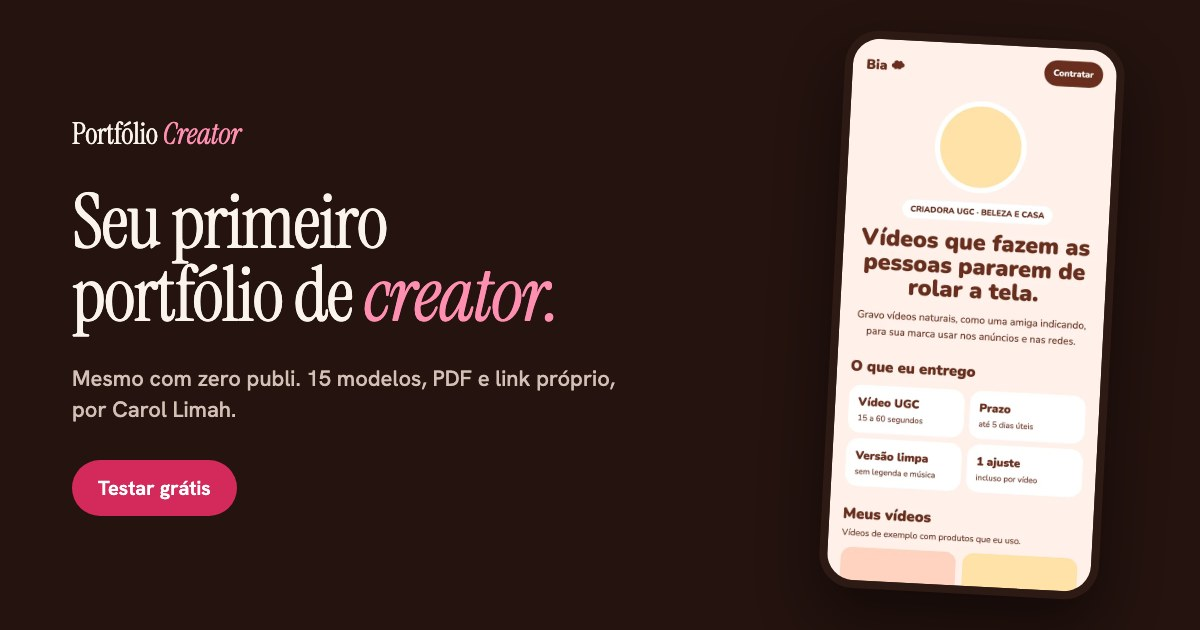
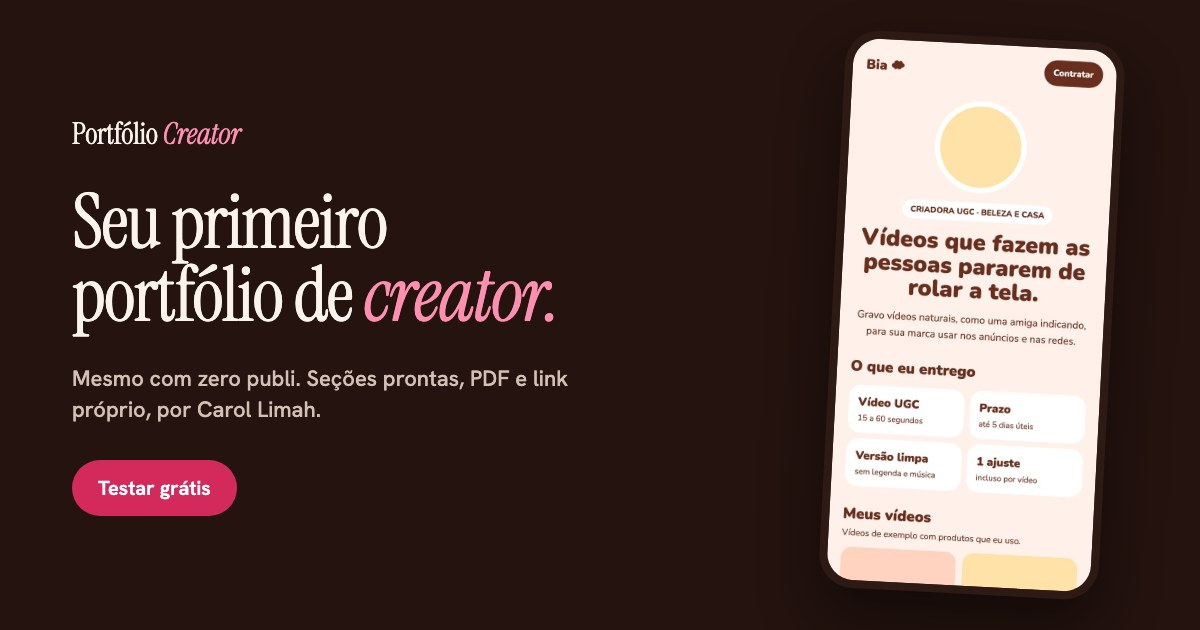
DEV-097: página de vendas sem modelos (seções prontas, teste só visualiza, sem promessa de IA dos prints, vitrine com imagens do editor)

Changed region(s): [[0.0617, 0.573, 0.5242, 0.6635]]

diff --git a/site/src/data/portfolio-creator.ts b/site/src/data/portfolio-creator.ts
@@ -46,8 +46,8 @@ export const CAROL = {
 };
 
 export const STEPS = [
-  { title: 'Escolha seu modelo', text: '15 modelos com layouts diferentes: suave, colorido, sério, casual, luxo, neon… e 3 paletas em cada um.' },
-  { title: 'Suba vídeos e prints', text: 'Você sobe até 10 vídeos e os prints das estatísticas do Instagram. A IA lê os prints e preenche os números, e você só confere.' },
+  { title: 'Monte com seções prontas', text: '11 seções pensadas para o que a marca procura: capa, vídeos, números, público, marcas e mais. Você escolhe quais entram, a ordem e o layout de cada uma.' },
+  { title: 'Suba vídeos e seus números', text: 'Você sobe os vídeos que gravou e digita os números do seu Instagram. Eles entram formatados no portfólio, e você confere tudo antes de concluir.' },
   { title: 'Baixe ou publique', text: 'Baixe o PDF para mandar para a marca, ou peça para a equipe colocar seu site no ar.' },
 ];
 
@@ -60,33 +60,24 @@ export const BEGINNER = [
 // o que a marca vê no portfólio pronto (só o que a especificação sustenta)
 export const BENEFITS = [
   { title: 'Seus números em destaque', text: 'Seguidores, views em 30 dias e média por reel logo no começo, do jeito que as marcas procuram.' },
-  { title: 'Prints do Instagram junto dos números', text: 'Seus prints entram no portfólio ao lado dos números que você mostra.' },
-  { title: 'Vídeos em galeria vertical', text: 'Até 10 vídeos, com a marca de cada publi quando você tiver.' },
+  { title: 'Vídeos em galeria vertical', text: 'Seus vídeos em carrossel, grade ou um em destaque, com a marca de cada publi quando você tiver.' },
   { title: 'Quem assiste você', text: 'Gênero, idade e cidades do seu público em gráficos fáceis de ler.' },
 ];
 
-// imagens geradas por scripts/portfolio-creator-shots.mjs (public/media/pc/modelo-<file>.webp)
-export const MODELS = [
-  { name: 'Nuvem', vibe: 'centralizado', file: 'nuvem' },
-  { name: 'Clean', vibe: 'coluna lateral', file: 'clean' },
-  { name: 'Pop Color', vibe: 'bento', file: 'pop' },
-  { name: 'Executivo', vibe: 'relatório', file: 'executivo' },
-  { name: 'Editorial', vibe: 'revista', file: 'editorial' },
-  { name: 'Casual', vibe: 'scrapbook', file: 'casual' },
-  { name: 'Glow Rosé', vibe: 'arcos', file: 'glow' },
-  { name: 'Neon', vibe: 'painel gamer', file: 'neon' },
-  { name: 'Terra', vibe: 'capítulos', file: 'terra' },
-  { name: 'Tropical', vibe: 'embarque', file: 'tropical' },
-  { name: 'Assinatura', vibe: 'elegante', file: 'assinatura' },
-  { name: 'Cinema', vibe: 'trailer', file: 'cinema' },
-  { name: 'Retrô', vibe: 'anos 2000', file: 'retro' },
-  { name: 'Placar', vibe: 'esportivo', file: 'placar' },
-  { name: 'Galeria', vibe: 'museu', file: 'galeria' },
+// vitrine de seções: imagens tiradas do editor de verdade por scripts/portfolio-creator-secoes.mjs
+// (public/media/pc/secao-<file>.webp); os layouts são os nomes das variações em src/blocks/registro.ts
+export const SECOES = [
+  { name: 'Capa', layouts: 'foto grande, foto redonda ou foto e vídeo de fundo', file: 'capa' },
+  { name: 'Vídeos', layouts: 'carrossel, grade ou um grande e os outros pequenos', file: 'videos' },
+  { name: 'Números', layouts: 'cards ou barras comparando', file: 'numeros' },
+  { name: 'Por que eu', layouts: 'lista ou cards', file: 'motivos' },
+  { name: 'Formatos e pacotes', layouts: 'cards ou tabela', file: 'formatos' },
+  { name: 'Como eu trabalho', layouts: 'passos em cartões ou linha', file: 'processo' },
 ];
 
 export const TRIAL = [
   'Sem cartão de crédito',
-  '5 dos 15 modelos liberados para montar, com marca d’água',
+  'Monte o portfólio inteiro e veja como fica, com marca d’água',
   'Feito primeiro para o celular',
 ];
 
@@ -112,8 +103,7 @@ export const PLANS = [
     price: 'R$ 49,90',
     note: 'pagamento único',
     items: [
-      'Escolha entre os 15 modelos e 3 paletas',
-      'IA que lê seus prints do Instagram',
+      'Todas as seções e o Estilo completo: cores, fontes e cantos',
       'Portfólio completo em PDF, sem marca d’água',
       'Mídia kit de 1 página no mesmo estilo',
       'Seu link portfoliocreator.com.br/seunome',
@@ -148,7 +138,7 @@ export const PLANS = [
       'Inclui seu link portfoliocreator.com.br/seunome',
       'Você mesma muda números, vídeos e marcas, quando quiser',
       'Site e PDF se atualizam na hora',
-      'Troque de modelo e de cores quando quiser',
+      'Troque seções, layouts e cores quando quiser',
       'Mensal: cancele quando quiser, sem multa. Anual: sem reembolso proporcional depois dos 7 dias',
     ],
     action: 'Quero este plano',
@@ -161,9 +151,9 @@ export const FAQ = [
   { q: 'O domínio fica no meu nome?', a: 'Fica. O domínio .com.br é registrado no seu nome e no seu CPF. Você cria a conta no Registro.br, a gente te orienta, e a equipe publica seu site em até 2 dias úteis. Já tem o PDF + link? Passe para o domínio próprio por R$ 100,00 mais a taxa do domínio.' },
   { q: 'Como funciona o cupom?', a: 'O LANCAMENTO10 dá 10% no valor do plano até 30/11. Não vale para a taxa do domínio e não soma com outros descontos.' },
   { q: 'E se eu não gostar?', a: 'Você tem 7 dias depois da compra para desistir e receber o dinheiro de volta. É só me chamar no direct do Instagram. Antes de pagar, dá para testar de graça.' },
-  { q: 'O que eu preciso ter em mãos?', a: 'Os vídeos que você gravou (até 10, de até 50 MB e 60 segundos cada) e, se quiser mostrar números, os prints das estatísticas do Instagram.' },
-  { q: 'Como a IA lê meus prints?', a: 'Você sobe os prints das estatísticas e os números são preenchidos automaticamente. Você confere e corrige se precisar.' },
-  { q: 'O teste grátis tem limite?', a: 'No teste, 5 modelos ficam liberados para você montar seu portfólio, com marca d’água. Os outros 10 aparecem com cadeado e são liberados quando você escolhe um plano, assim como baixar o PDF e publicar o site.' },
+  { q: 'O que eu preciso ter em mãos?', a: 'Os vídeos que você gravou (até 100 MB cada) e, se quiser mostrar números, as estatísticas do seu Instagram abertas para copiar.' },
+  { q: 'Como entram os meus números?', a: 'Você digita seguidores, views e dados do público, e eles aparecem formatados no portfólio, com o período de referência. Antes de concluir, a revisão aponta o que ainda está com número de exemplo.' },
+  { q: 'O teste grátis tem limite?', a: 'No teste você monta o portfólio inteiro, com todas as seções, e vê como fica, com marca d’água. Baixar o PDF e publicar o site são liberados quando você escolhe um plano.' },
   { q: 'Posso mudar meu site depois de publicado?', a: 'Pode. Com a atualização mensal, a aba Editar fica liberada e você mesma muda o que quiser: o site e o PDF se atualizam na hora. Sem assinatura, dá para liberar a aba Editar por 30 dias por R$ 49,90. Sem um dos dois, o site fica como foi publicado.' },
   { q: 'Posso cancelar a atualização mensal?', a: 'Pode, quando quiser e sem multa, e a aba Editar continua liberada até o fim do mês já pago. No plano anual (R$ 179), o pagamento já cobre os 12 meses, sem reembolso proporcional depois dos 7 dias de desistência.' },
 ];

diff --git a/site/src/styles/portfolio-creator.css b/site/src/styles/portfolio-creator.css
@@ -70,13 +70,13 @@
 .steps h3 { font-family: var(--serif); font-weight: 400; font-size: 32px; line-height: 1.05; }
 .steps p { font-size: 17px; line-height: 1.55; color: var(--ink-2); }
 
-/* ---- modelos ---- */
-.models { list-style: none; margin: 0; padding: 0; display: grid; grid-template-columns: repeat(auto-fill, minmax(min(100%, 210px), 1fr)); gap: 24px 14px; }
+/* ---- vitrine de seções (a classe .models ficou do tempo dos modelos; o script de revelação usa o mesmo nome) ---- */
+.models { list-style: none; margin: 0; padding: 0; display: grid; grid-template-columns: repeat(3, minmax(0, 1fr)); gap: 32px 18px; }
 .models figure { margin: 0; }
 .models img { width: 100%; height: auto; aspect-ratio: 1200 / 1372; object-fit: cover; object-position: top; border-radius: 16px; background: var(--cream-card); display: block; }
-.models figcaption { display: flex; justify-content: space-between; align-items: baseline; gap: 8px; padding: 12px 2px 0; }
+.models figcaption { display: grid; gap: 4px; padding: 12px 2px 0; }
 .models b { font-family: var(--serif); font-weight: 400; font-size: 24px; line-height: 1.1; }
-.models span { font-size: 13px; color: var(--cream-eyebrow); text-align: right; }
+.models span { font-size: 14px; line-height: 1.4; color: var(--cream-eyebrow); }
 @media (max-width: 720px) { .models { grid-template-columns: repeat(2, minmax(0, 1fr)); gap: 20px 10px; } .models img { border-radius: 12px; } }
 
 /* ---- modo iniciante e teste: duas colunas como "sobre" ---- */
@@ -154,7 +154,7 @@
 .faq summary:hover { color: var(--accent-light); }
 .faq details p { padding-bottom: 24px; font-size: 17px; line-height: 1.6; color: var(--muted); }
 
-/* ---- movimento: o hero entra em sequência e os modelos aparecem uma vez; o resto é o do site (marquee, fade, dock) ---- */
+/* ---- movimento: o hero entra em sequência e as seções da vitrine aparecem uma vez; o resto é o do site (marquee, fade, dock) ---- */
 @keyframes rise { from { opacity: 0; translate: 0 24px; } }
 @media (prefers-reduced-motion: no-preference) {
   .pc .hero-text > * { animation: rise 0.9s cubic-bezier(0.16, 1, 0.3, 1) both; }

diff --git a/site/src/scripts/portfolio-creator.ts b/site/src/scripts/portfolio-creator.ts
@@ -1,4 +1,4 @@
-// Scripts do /portfolio-creator/: menu, pausa da faixa, revelação dos modelos e CTA fixo no mobile.
+// Scripts do /portfolio-creator/: menu, pausa da faixa, revelação da vitrine de seções e CTA fixo no mobile.
 // Mesmo comportamento do site da Carol (scripts/main.ts), só o que esta página usa.
 import { initMenu } from './menu';
 import { t } from '../i18n/client';
@@ -20,14 +20,14 @@ if (marquee && toggle && !reduceMotion) {
   });
 }
 
-// ---- Modelos: aparecem em sequência, uma vez, quando a grade entra na tela ----
+// ---- Vitrine de seções: aparecem em sequência, uma vez, quando a grade entra na tela ----
 const grid = document.querySelector<HTMLElement>('.models');
 if (grid && !reduceMotion && 'IntersectionObserver' in window && grid.getBoundingClientRect().top > window.innerHeight) {
   grid.classList.add('reveal-ready');
   new IntersectionObserver(([e], io) => {
     if (e.isIntersecting) { grid.classList.add('in'); io.disconnect(); }
   }, { threshold: 0.12 }).observe(grid);
-  // rede de segurança: se algo impedir a observação, os modelos aparecem
+  // rede de segurança: se algo impedir a observação, as seções aparecem
   setTimeout(() => grid.classList.add('in'), 6000);
 }
 

diff --git a/docs/PROPOSTA-PAGINA-VENDAS-SEM-MODELOS.md b/docs/PROPOSTA-PAGINA-VENDAS-SEM-MODELOS.md
@@ -1,0 +1,96 @@
+# Proposta: página de vendas sem modelos (DEV-097)
+
+Data: 28/out/2026. Status: **aprovada e aplicada em localhost em 28/out.** Decisões do usuário:
+- Teste grátis: monta tudo e só visualiza, com marca d'água.
+- Corrigir junto a promessa da IA dos prints e o "até 10 vídeos".
+
+A página `/portfolio-creator/` fica em `site/` e só vai para produção no merge na `main`.
+
+Motivo: desde 27/out não há modelos para escolher (DEV-096). A página ainda promete "15 modelos, 45 combinações", uma galeria de modelos e "5 dos 15 liberados no teste". Abaixo, cada trecho atual com o texto novo, usando só o que existe hoje no produto.
+
+## O que é verdade hoje (base do texto novo)
+
+- **11 seções prontas:** Capa, Em 1 olhada, Vídeos, Números, Por que eu, Sobre mim, Público, Marcas, Formatos e pacotes, Como eu trabalho e Contato.
+  - Cada uma tem 2 ou 3 layouts, somando 24 no total.
+  - Por exemplo, a Capa pode ter foto grande, foto redonda ou foto e vídeo de fundo.
+- Ela adiciona, esconde, remove e reordena seções, com até 15 na página.
+- **Estilo:** 3 paletas prontas (Lavanda, Pêssego e Menta) ou a cor dela, 2 pares de fonte, 3 tipos de cantos (retos, suaves e redondos) e página clara ou escura.
+- Tudo se edita no celular, em cima do resultado final.
+
+## Trechos: atual e proposta
+
+### `src/data/portfolio-creator.ts`
+
+**1. Passo 1 de "Como funciona" (`STEPS`, linha 49)**
+- Atual: título "Escolha seu modelo", texto "15 modelos com layouts diferentes: suave, colorido, sério, casual, luxo, neon… e 3 paletas em cada um."
+- Proposta: título "Monte com seções prontas", texto "11 seções pensadas para o que a marca procura: capa, vídeos, números, público, marcas e mais. Você escolhe quais entram, a ordem e o layout de cada uma."
+
+**2. Galeria `MODELS` (linhas 68-84)**
+- Atual: lista dos 15 modelos com as imagens `modelo-*.webp`.
+- Proposta: trocar por `SECOES`, uma vitrine de 6 seções com imagem de cada uma, geradas a partir das seções reais do editor. Sugestão: Capa, Vídeos, Números, Público, Marcas e Contato, com o nome e os layouts disponíveis. Exemplo: **Vídeos**, "carrossel, grade ou um grande e os outros pequenos".
+- As imagens precisam ser refeitas. O script `scripts/portfolio-creator-shots.mjs` hoje fotografa os protótipos dos modelos, e passaria a fotografar `/app/blocos/` (a prévia das seções que já existe).
+
+**3. Teste grátis (`TRIAL`, linha 89)**
+- Atual: "5 dos 15 modelos liberados para montar, com marca d'água".
+- Proposta: "Todas as seções liberadas para montar, com marca d'água".
+- **Precisa da sua decisão:** o que o teste libera agora que não há modelos para travar. Esta proposta parte de "tudo liberado para montar; PDF e publicar só no plano", que é o que o produto faz hoje.
+
+**4. Plano PDF + link (`PLANS`, linha 115)**
+- Atual: "Escolha entre os 15 modelos e 3 paletas".
+- Proposta: "Todas as seções e o Estilo completo (cores, fontes e cantos)".
+
+**5. Plano de atualização mensal (`PLANS`, linha 151)**
+- Atual: "Troque de modelo e de cores quando quiser".
+- Proposta: "Troque seções, layouts e cores quando quiser".
+
+**6. Pergunta frequente (`FAQ`, linha 166)**
+- Atual: "No teste, 5 modelos ficam liberados para você montar seu portfólio, com marca d'água. Os outros 10 aparecem com cadeado e são liberados quando você escolhe um plano, assim como baixar o PDF e publicar o site."
+- Proposta: "No teste você monta seu portfólio inteiro, com todas as seções, e vê o resultado com marca d'água. Baixar o PDF e publicar o site são liberados quando você escolhe um plano." Depende da decisão do item 3.
+
+### `src/views/PortfolioCreator.astro`
+
+**7. Descrição da página para o Google (linha 17)**
+- Atual: "Monte portfólio e mídia kit de UGC e influência em 15 modelos, com PDF e link próprio. Criado pela Carol Limah. Teste grátis."
+- Proposta: "Monte portfólio e mídia kit de UGC e influência com seções prontas, com PDF e link próprio. Criado pela Carol Limah. Teste grátis."
+
+**8. Menu (linha 75)**
+- Atual: "Modelos", com âncora `#modelos`.
+- Proposta: "Seções", com âncora `#secoes`.
+
+**9. Texto de abertura (linha 89)**
+- Atual: "Mesmo sem nenhuma publi, você escolhe um modelo, sobe os vídeos que gravou em casa e monta um portfólio…"
+- Proposta: "Mesmo sem nenhuma publi, você escolhe as seções, sobe os vídeos que gravou em casa e monta um portfólio…" O resto da frase fica igual.
+
+**10. Número em destaque (linha 98)**
+- Atual: "modelos de layout: 15".
+- Proposta: "seções prontas: 11".
+
+**11. Imagens do topo (linhas 106-107)**
+- Atual: "Modelo Nuvem" e "Modelo Assinatura". O modelo Assinatura nunca existiu no produto.
+- Proposta: duas imagens do portfólio de exemplo no editor real, uma clara (Lavanda) e uma escura (página escura). Texto alternativo: "Portfólio de exemplo com a capa de foto redonda, cor Lavanda" e "O mesmo portfólio com a página escura".
+
+**12. Seção da galeria (linhas 182-196)**
+- Atual: título "15 modelos, *45 combinações*" e o texto "Cada modelo tem layout próprio e 3 paletas de cor."
+- Proposta: título "11 seções, *do seu jeito*" e o texto "Cada seção tem 2 ou 3 layouts. Você escolhe quais entram, em que ordem, e ajusta cor, fonte e cantos." A grade passa a mostrar a vitrine do item 2. A animação de revelação (`src/scripts/portfolio-creator.ts`, classe `.models`) continua, mudando só o nome da classe.
+
+**13. "Por que não montar em outro lugar?" (linha 241)**
+- Atual: "Editores comuns te dão um modelo em branco. Aqui você recebe uma estrutura pensada por mim…"
+- Proposta: fica como está. O argumento continua verdadeiro: ela recebe as seções prontas, já na ordem que a marca procura.
+
+**14. Chamada do teste (linha 252)**
+- Atual: "No teste grátis você escolhe um modelo, sobe seus vídeos e prints e vê o seu portfólio de verdade…"
+- Proposta: "No teste grátis você monta suas seções, sobe seus vídeos e prints e vê o seu portfólio de verdade…" O resto fica igual.
+
+## Fora desta proposta, mas notei ao ler a página
+
+Não mexi em nada disso. Fica registrado para você decidir.
+
+- **"A IA lê os prints e preenche os números"** (passo 2 de `STEPS` e o plano PDF: "IA que lê seus prints do Instagram"): a leitura de prints ficou para depois da versão 1 (DEV-130). Hoje ela digita os números.
+- **"até 10 vídeos"** (passo 2 e `BENEFITS`): o editor hoje não limita a quantidade de vídeos na seção Vídeos (a lista não tem máximo de itens em `src/blocks/registro.ts`). Ou a página deixa de dizer "até 10", ou o editor passa a limitar em 10.
+
+## Como aplicar, depois do seu "aprovado"
+
+1. Trocar os textos dos itens 1 e 3 a 14 em `src/data/portfolio-creator.ts` e `src/views/PortfolioCreator.astro`.
+2. Gerar as imagens novas (itens 2 e 11) a partir do editor real e apagar as `modelo-*.webp` que deixarem de ser usadas.
+3. Fazer as capturas em 390 e 1280 px, rodar o impeccable e o Playwright, e mostrar antes do commit.
+4. O site só muda em produção no merge na `main`, quando você pedir para publicar.

diff --git a/docs/PROGRESSO.md b/docs/PROGRESSO.md
@@ -16,8 +16,8 @@ Diário do projeto e memória entre sessões. Toda IA que trabalhar aqui lê a s
 - **OCR:** código removido por ora; a spec `docs/04-ocr-prints.md` fica (código no commit `6ecf8fc`).
 - **Em andamento (27/out): correções da revisão de UX do editor**, uma tarefa por vez, cada uma com aprovação e commit:
   - (0) commit do trabalho pendente (feito).
-  - (1) **DEV-096, sem modelos** (feito, esperando aprovação). Decisão do usuário: acabam os modelos para escolher; o editor e as seções montam tudo. A etapa do assistente vira "Escolha suas cores" e os docs são atualizados. `modelo` fica só como valor interno `'nuvem'`, sem migração.
-  - (1b) DEV-097: proposta do texto da página de vendas sem modelos (só muda com aprovação).
+  - (1) **DEV-096, sem modelos** (aprovada, commit `787a989`). Decisão do usuário: acabam os modelos para escolher; o editor e as seções montam tudo. A etapa do assistente vira "Escolha suas cores" e os docs são atualizados. `modelo` fica só como valor interno `'nuvem'`, sem migração.
+  - (1b) **DEV-097:** proposta aprovada e aplicada em localhost. Esperando aprovação do resultado e a decisão sobre as imagens da vitrine.
   - (2) DEV-082: não perder edição quando salvar na conta falha (achado confirmado: recarregar online apagava a edição feita sem conexão).
   - (3) DEV-232: foco e teclado no editor (anel de foco dos blocos a ~1,2:1, foco entrando na gaveta, atalhos, Delete esconde a seção).
   - (4) DEV-093: topo em 320 px, abas no desktop e dica de primeiro uso.
@@ -27,7 +27,24 @@ Diário do projeto e memória entre sessões. Toda IA que trabalhar aqui lê a s
 
 ## Esperando aprovação
 
-- **Sem modelos (DEV-096, pedido seu):** acabou a escolha de modelo. A primeira etapa do assistente virou **"Escolha suas cores"**: as 3 paletas com nome e amostra, acima da prévia da página (as opções e o botão cabem sem rolar de 320 a 1280 px), botão "Usar estas cores". Os textos do app que diziam "escolha o modelo" agora dizem "monte seu portfólio com as seções". `modelo` continua só como valor interno `'nuvem'` no projeto e no banco (sem migração; remover a coluna fica para depois). Documentos atualizados: PRD, construtor, backlog (DEV-070 a 073, 191 e 400 descartadas), guia e proposta do template. **A página de vendas ainda promete 15 modelos:** a proposta de texto novo vem na DEV-097.
+- **Página de vendas sem modelos (DEV-097, aplicada em localhost):** a página `/portfolio-creator/` deixou de prometer modelos. Base: `docs/PROPOSTA-PAGINA-VENDAS-SEM-MODELOS.md`.
+  - **Textos:**
+    - Passos de "Como funciona".
+    - Topo: "você escolhe as seções", e os números viraram "11 seções prontas" e "3 cores prontas, ou a sua"; antes eram "15 modelos" e "45 paletas".
+    - Itens dos planos e a descrição para o Google.
+    - Menu "Seções" (âncora `#secoes`).
+    - Teste grátis: decisão sua de **montar tudo e só visualizar, com marca d'água**; PDF e publicar ficam no plano.
+  - **Correções que você pediu junto:**
+    - Saiu a promessa de "IA que lê os prints": ela digita os números (passo 2, plano, benefício e 2 perguntas).
+    - Saiu o "até 10 vídeos": o editor não limita; o vídeo vai até 100 MB.
+  - **Vitrine:** "11 seções, *do seu jeito*", com 6 cartões (Capa, Vídeos, Números, Por que eu, Formatos e pacotes, Como eu trabalho) e os layouts de cada uma na legenda. São 3 colunas no desktop e 2 no celular.
+  - **Imagens:**
+    - As 6 da vitrine e as 2 do topo (exemplo claro e escuro) são tiradas do modo Ver do editor de verdade por `scripts/portfolio-creator-secoes.mjs` (780×892, 176 KB as 8).
+    - As 15 `modelo-*.webp` foram apagadas e o `portfolio-creator-shots.mjs` não gera mais modelos.
+    - A prévia de link (`og-portfolio-creator.jpg`) diz "Seções prontas" no lugar de "15 modelos".
+  - **Ponto fraco (crítica do impeccable):** as imagens mostram o conteúdo de exemplo vazio ("Sua foto", "[seu nome]", "00 mil") e cada cartão tem uma cor. Parecem rascunho perto do celular "Bia" do protótipo. **Decisão sua:** manter, refazer com um portfólio de exemplo preenchido (nome e textos genéricos, sem números) ou com o portfólio real da Carol (exige rodar o `seed:carol`, que grava na conta de teste).
+  - **Achados que já existiam antes desta mudança (não mexi):** texto escuro sobre o rosa `#e5386a` a 4,3:1 (abaixo de 4,5:1) em 3 ou 4 pontos e 3 cores fora do DESIGN.md na linha 177.
+  - O site só muda em produção no merge na `main`.
 
 - **Título da capa livre (pedido seu):** a frase "Oi, eu sou X e mostro Y do meu jeito" deixou de ser imposta. O assistente ganhou a etapa **"Qual título abre a sua capa?"**: campo livre, com 4 sugestões em botões (a frase antiga é só a primeira); em branco usa a primeira sugestão. No editor, tocar num texto de exemplo com [colchetes] já seleciona tudo para escrever por cima. A dica da etapa "O que você mostra" não diz mais que vira a frase da capa.
 

diff --git a/site/.impeccable/critique/2026-10-28T02-00-00Z__src-views-portfoliocreator-astro.md b/site/.impeccable/critique/2026-10-28T02-00-00Z__src-views-portfoliocreator-astro.md
@@ -1,0 +1,26 @@
+# Crítica: página de vendas sem modelos (DEV-097)
+
+Alvo: `src/views/PortfolioCreator.astro` (`/portfolio-creator/`). Modo: Persuade. Escopo: só o que mudou (topo, Como funciona, vitrine `#secoes`, planos, teste e perguntas).
+Método: avaliação A (design) e avaliação B (detector + navegador) em subagentes isolados. Sem degradação.
+
+## Detector
+- CLI: saída 0. Há 3 avisos `design-system-color` na linha 177 (#F9C9DA, #D9CCFA, #CDEFE0), que já existiam antes.
+- Overlay:
+  - `italic-serif-display` em todos os títulos (padrão da marca, fica).
+  - `low-contrast` 4,3:1 em texto escuro sobre o rosa `#e5386a`, em 3 ou 4 pontos que já existiam antes e ficam fora deste escopo.
+  - Um caso de 1,0:1 que parece falso positivo de fundo herdado.
+  - `straggler` em 6 parágrafos.
+  - `marquee`, que é intencional.
+
+## Medido
+- Contraste: título da vitrine 16,4:1; texto ao lado 9,9:1; legendas 16,4:1 (nome) e 6,3:1 (layouts); números do topo 7,6:1 (rótulos) e 16,4:1 (valores).
+- Grade: 3 colunas no desktop e 2 no celular, sem cartão sozinho na última linha. Nada vaza da tela. Nenhum 404 e nenhum erro no console.
+- **Corrigido:** as imagens da vitrine tinham 480 px e eram exibidas a 375 px no desktop (1,28 vezes, abaixo do dobro pedido em tela retina). Agora saem com 780×892.
+
+## Achados levados ao usuário (decisão de conteúdo)
+1. As capturas mostram o conteúdo de exemplo vazio ("Sua foto", "[seu nome]", "00 mil"). Parecem rascunho, e uma galeria vende pelo desejo de "quero ficar assim".
+2. Cada cartão tem uma paleta diferente, e os pastéis saturados destoam do tom editorial da página.
+3. No topo, o celular "Bia" (protótipo, preenchido) aparece ao lado de dois exemplos vazios do editor.
+
+## Fatos conferidos
+Os textos novos batem com o produto: 11 seções, 3 cores ou a sua, o Estilo, o teste sem PDF nem publicação e os números digitados. O modo iniciante existe (DEV-091).
